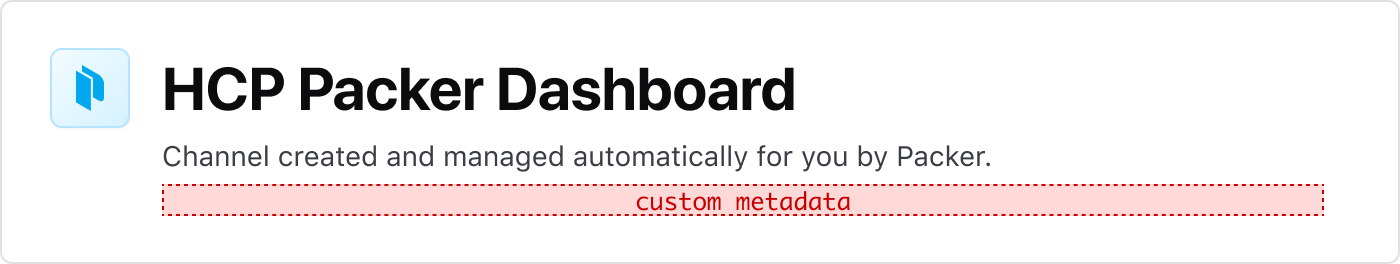
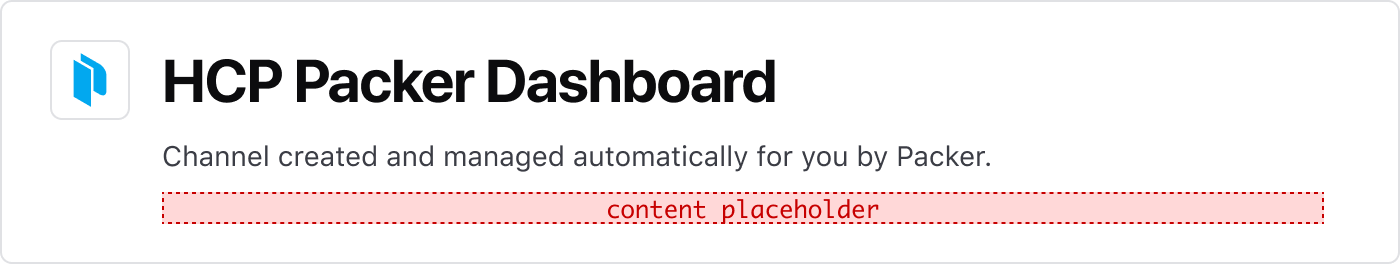
Updated guidelines to more closely reflect the Figma component properties and structure

Changed region(s): [[0.0307, 0.1515, 0.5836, 0.4848], [0.0921, 0.697, 0.9521, 0.8485]]

diff --git a/website/docs/components/page-header/partials/guidelines/guidelines.md b/website/docs/components/page-header/partials/guidelines/guidelines.md
@@ -62,7 +62,7 @@ Use badges to express similar or related metadata pertaining to the page content
 
 !!! Dont
 
-Don’t use more than three badges within the Page Header, instead explore ways to express additional metadata in the `customMetadata` area or move the content to the main page.
+Don’t use more than three badges within the Page Header, instead explore ways to express additional metadata in the `generic` area of the component or move the content to the main page.
 
 ![Page Header Badges Metadata](/assets/components/page-header/page-header-badges-dont-many-badges.png =700x*)
 
@@ -118,9 +118,9 @@ Instead, link to more complex content using an [Inline Link](/components/link/in
 
 !!!
 
-## Custom metadata
+## Custom content
 
-If necessary to include metadata like key/value pairs, multiple page-level statuses, or other structured content, custom metadata can be passed to the component via the `customMetadata` property in Figma.
+If necessary to include metadata like key/value pairs, multiple page-level statuses, or other structured content, custom content can be passed to the component via the `hasGenericInstance` property in Figma, and to the generic contextual component in Ember.
 
 ![Page Header custom metadata](/assets/components/page-header/page-header-custom-metadata-example.png =700x*)
 
